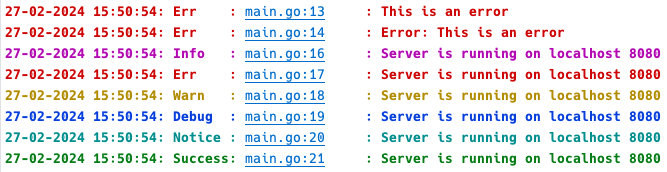
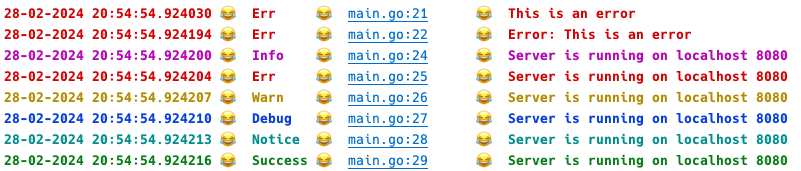
Add SetSeparator and SetTimePrecision

diff --git a/logger.go b/logger.go
@@ -18,33 +18,68 @@ var (
 	success = color("\033[1;32m%s\033[0m")
 )
 
+// separator is a type defined for representing a separator in the log messages.
+// It is used to separate different parts of a log message.
+var separator string = " | "
+
+// timePrecision is a type defined for representing the precision of seconds in the time format.
+type timePrecision string
+
+// Constants for different levels of time precision.
+const (
+	// MILLI represents millisecond precision in the time format.
+	MILLI timePrecision = ".000"
+	// MICRO represents microsecond precision in the time format.
+	MICRO timePrecision = ".000000"
+	// NANO represents nanosecond precision in the time format.
+	NANO timePrecision = ".000000000"
+)
+
 // timeFormat is a global variable that holds the format of the time string.
 var timeFormat string
 
+// language is a global variable that holds the current language setting for the logger.
+// It is used to determine the format of the timestamp in the log messages.
+// The default language is set to English ("en").
+var language string = "en"
+
 // SetLanguage is a function that sets the time format based on the provided language.
 // It takes a string representing the language and sets the time format accordingly.
-func SetLanguage(language string) {
-	switch language {
+func SetLanguage(lang string) {
+	switch lang {
 	case "en":
-		timeFormat = "01-02-2006 3:04 PM"
+		timeFormat = "01-02-2006 3:04:05 PM"
 	case "fr":
-		timeFormat = "02-01-2006 15:04"
+		timeFormat = "02-01-2006 15:04:05"
 	case "de":
-		timeFormat = "02.01.2006 15:04"
+		timeFormat = "02.01.2006 15:04:05"
 	case "zh":
-		timeFormat = "2006年01月02日 15:04"
+		timeFormat = "2006年01月02日 15:04:05"
 	case "ja":
-		timeFormat = "2006年01月02日 15:04"
+		timeFormat = "2006年01月02日 15:04:05"
 	case "ru":
-		timeFormat = "02.01.2006 15:04"
+		timeFormat = "02.01.2006 15:04:05"
 	case "es":
-		timeFormat = "02-01-2006 15:04"
+		timeFormat = "02-01-2006 15:04:05"
 	case "it":
-		timeFormat = "02-01-2006 15:04"
+		timeFormat = "02-01-2006 15:04:05"
 	case "ar":
-		timeFormat = "02/01/2006 15:04"
+		timeFormat = "02/01/2006 15:04:05"
 	default:
-		timeFormat = "2006-01-02 15:04"
+		timeFormat = "2006-01-02 15:04:05"
+	}
+	language = lang
+}
+
+// SetTimePrecision is a function that sets the time format to include seconds precision.
+// It takes a timePrecision value representing the precision of the seconds (MILLI, MICRO, NANO).
+// If the current language is English ("en"), it sets the time format to "01-02-2006 3:04:05" followed by the precision and " PM".
+// For other languages, it appends the precision to the current time format.
+func SetTimePrecision(precision timePrecision) {
+	if language == "en" {
+		timeFormat = "01-02-2006 3:04:05" + string(precision) + " PM"
+	} else {
+		timeFormat = timeFormat + string(precision)
 	}
 }
 
@@ -52,6 +87,15 @@ func SetLanguage(language string) {
 // It takes a string representing the custom format and sets the time format to it.
 func SetCustomTimeFormat(customFormat string) {
 	timeFormat = customFormat
+}
+
+// SetSeparator is a function that sets the separator for the log messages.
+// It takes a string representing the separator and sets the global variable 'separator' to it.
+// The separator is used to separate different parts of a log message.
+// The default separator is " | ".
+// Example: "2021-07-01 12:00:00 | Debug | main.go:15 | Server is running on localhost 8080"
+func SetSeparator(sep string) {
+	separator = sep
 }
 
 // includeFileName is a global variable that determines whether the file name should be included in the log.
@@ -82,9 +126,9 @@ func color(colorString string) func(message, level string, args ...any) string {
 		fileLine := getFileAndLine()
 		var fullMessage string
 		if !includeFileName {
-			fullMessage = fmt.Sprintf("%s: %-7s: %s", timestamp, level, formattedMessage)
+			fullMessage = fmt.Sprintf("%s%s %-7s%s %s", timestamp, separator, level, separator, formattedMessage)
 		} else {
-			fullMessage = fmt.Sprintf("%s: %-7s: %-15s: %s", timestamp, level, fileLine, formattedMessage)
+			fullMessage = fmt.Sprintf("%s%s %-7s%s %-15s%s %s", timestamp, separator, level, separator, fileLine, separator, formattedMessage)
 		}
 		msg := fmt.Sprintf(colorString, fullMessage)
 
